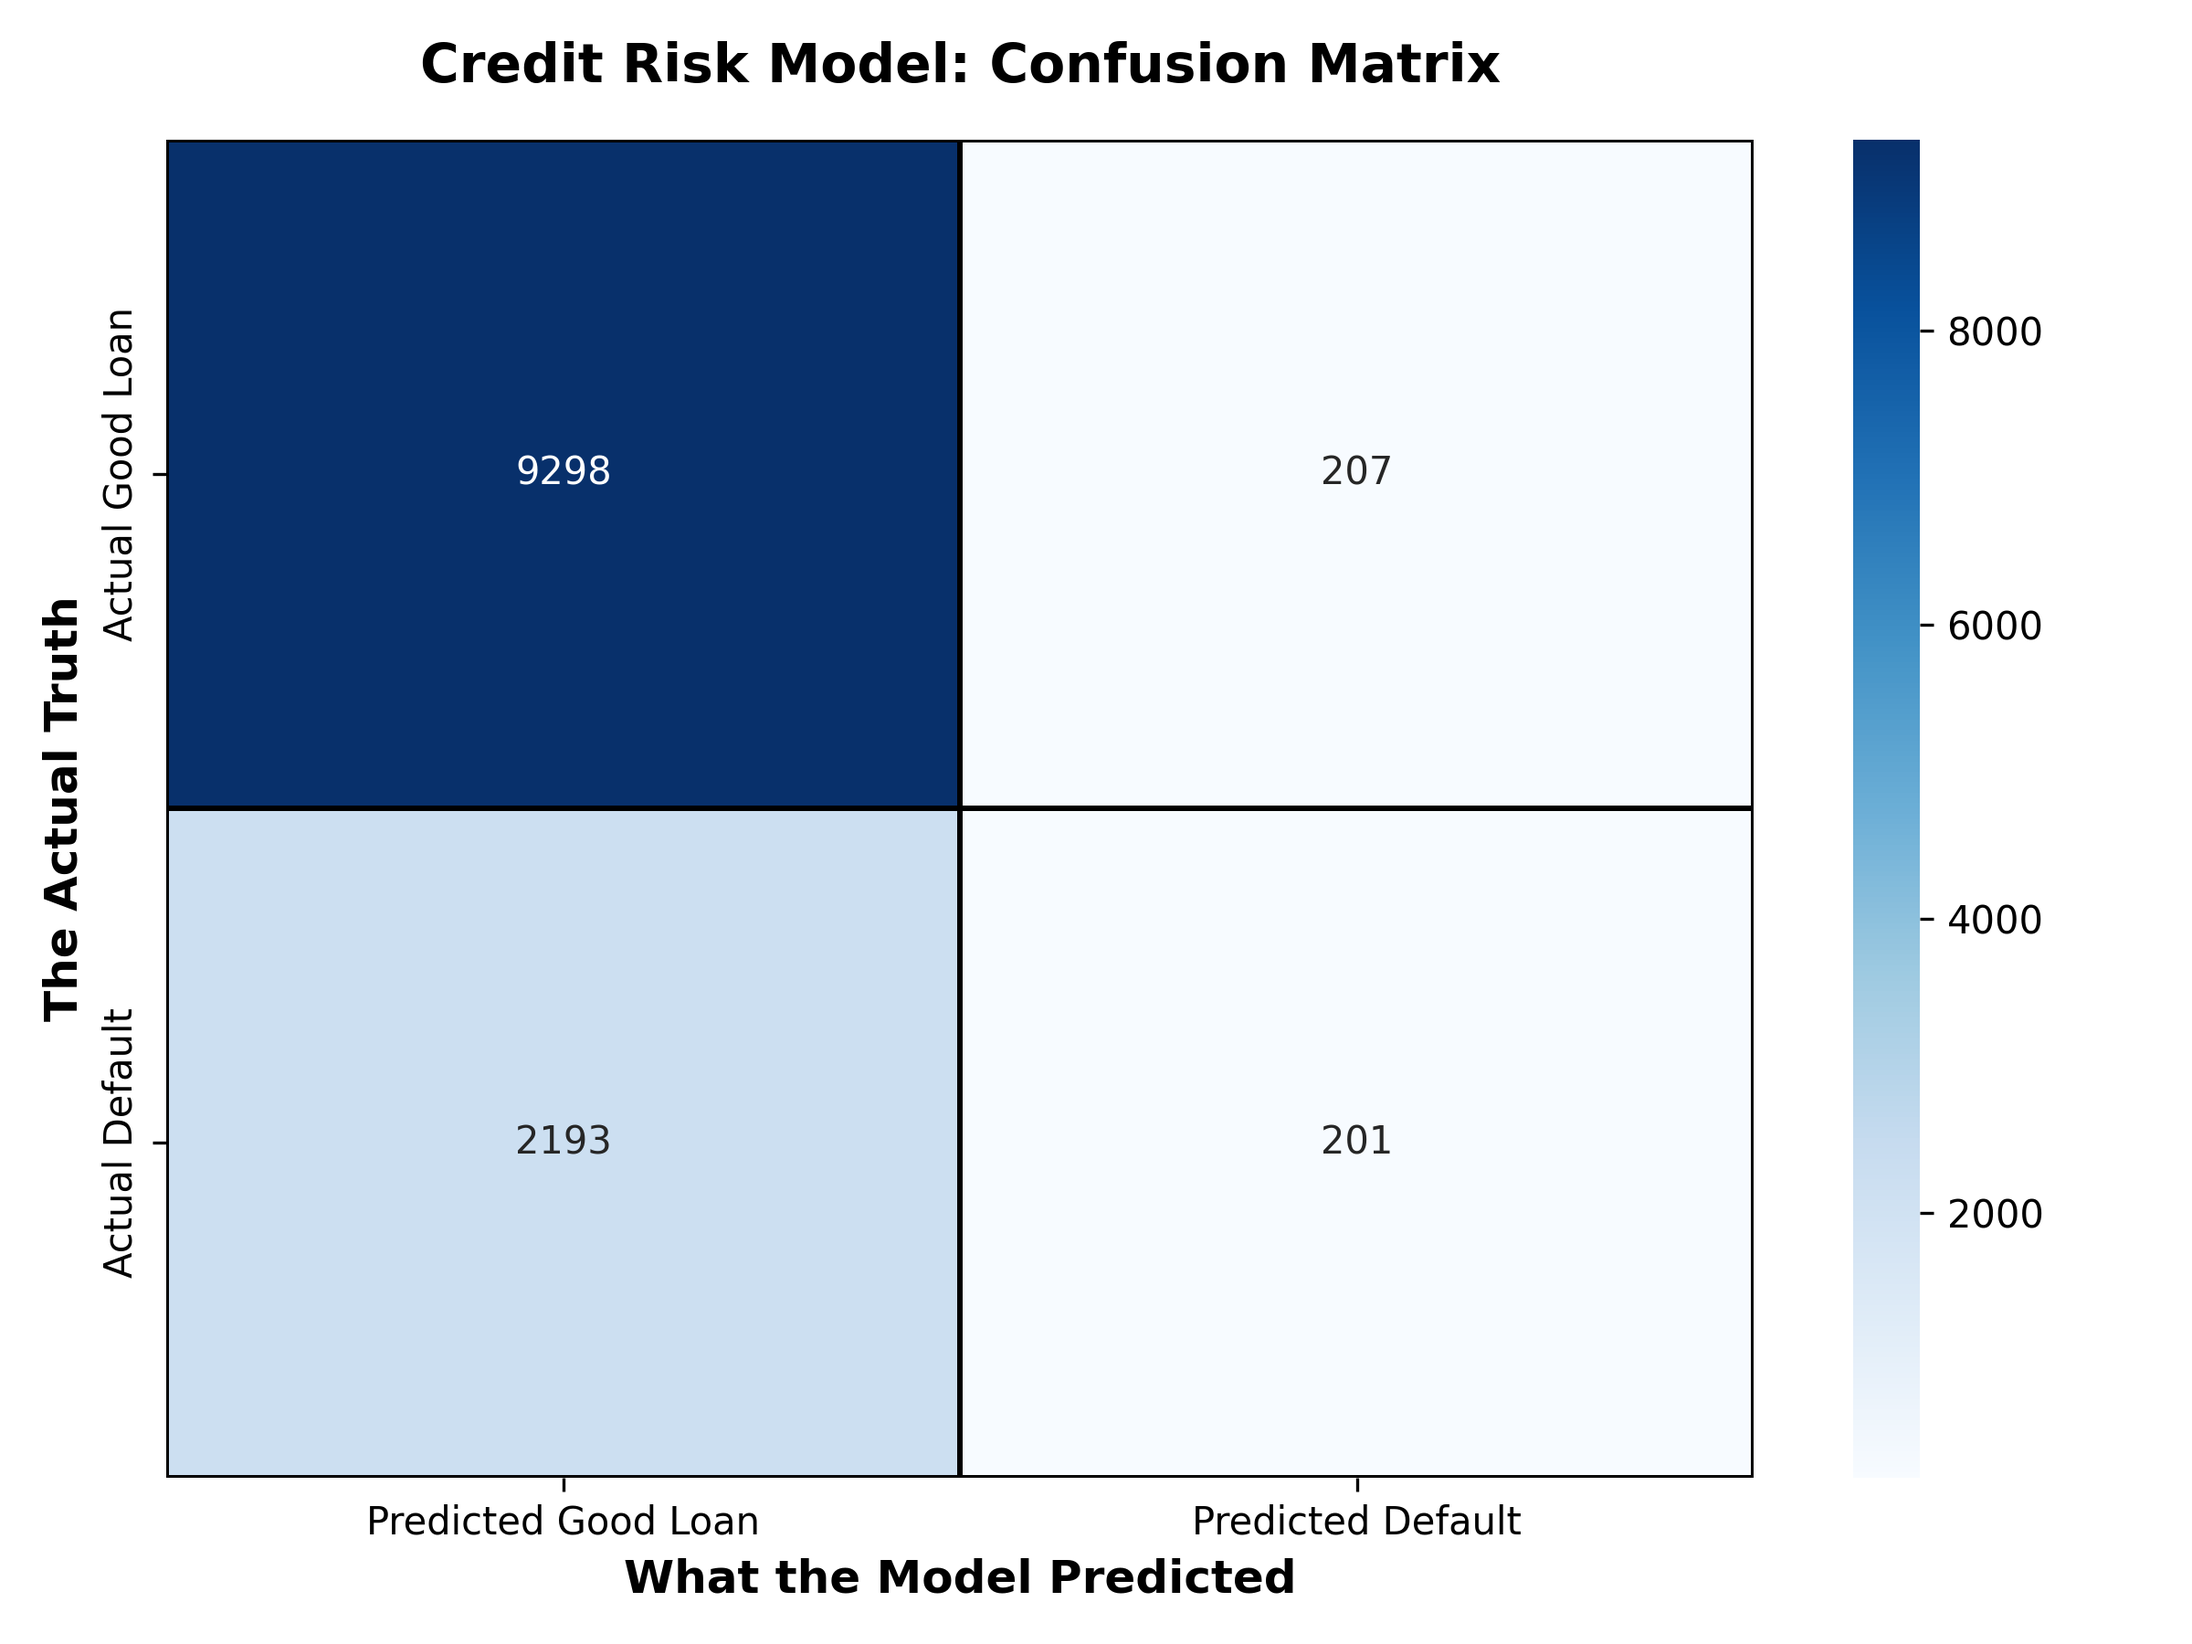
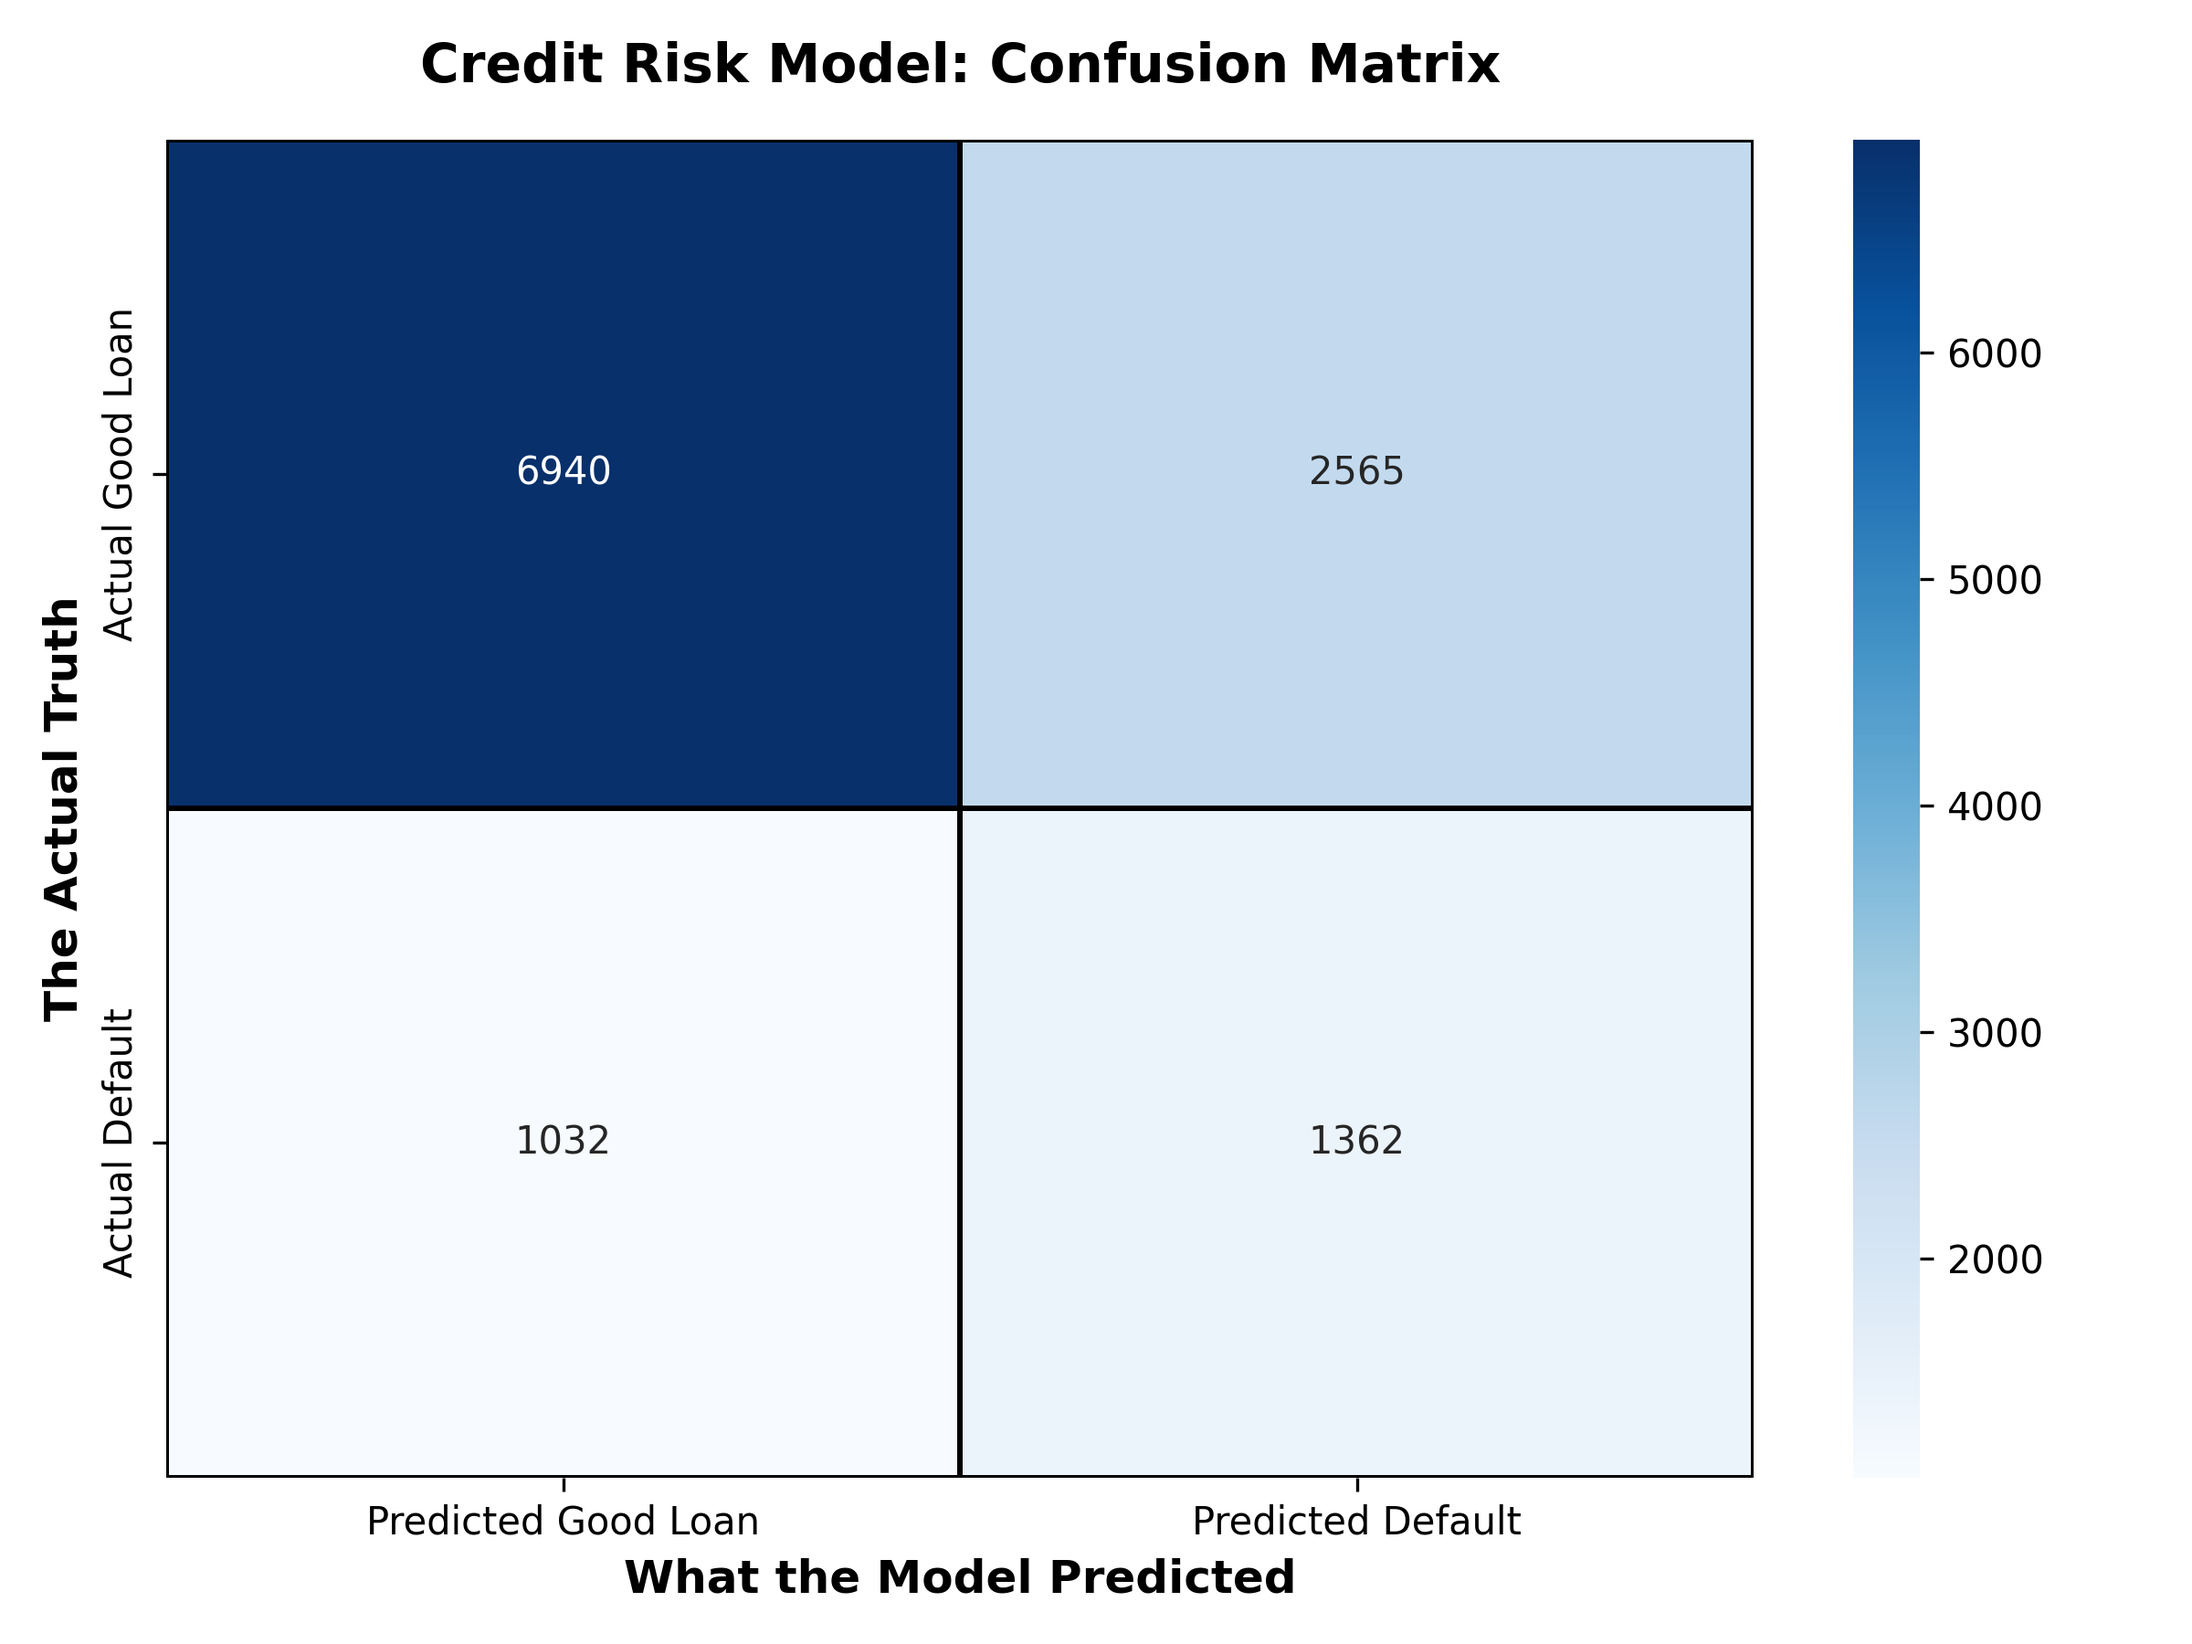
fix: adjusted the model for the rf classifier

diff --git a/modeling.py b/modeling.py
@@ -15,7 +15,7 @@ y = df['target']
 X_train, X_test, y_train, y_test = train_test_split(X, y, test_size=0.2, random_state=42)
 
 # Train model
-rf = RandomForestClassifier()
+rf = RandomForestClassifier(n_estimators=100, max_depth=10, class_weight='balanced', random_state=42, n_jobs=-1)
 rf.fit(X_train, y_train)
 
 # Final splits
@@ -23,7 +23,7 @@ y_pred = rf.predict(X_test)
 
 # Confusion Matrix
 cm = confusion_matrix(y_test, y_pred)
-
+print(cm)
 plt.figure(figsize=(8, 6))
 sns.heatmap(cm, annot=True, fmt='d', cmap='Blues',
             linewidths=1, linecolor='black',
@@ -43,7 +43,7 @@ plt.show()
 # Classification Report
 report_dict = classification_report(y_test, y_pred, output_dict=True)
 report_df = pd.DataFrame(report_dict).transpose()
-
+print(report_df)
 metrics_to_plot = report_df.drop('support', axis=1)
 
 plt.figure(figsize=(8, 5))
